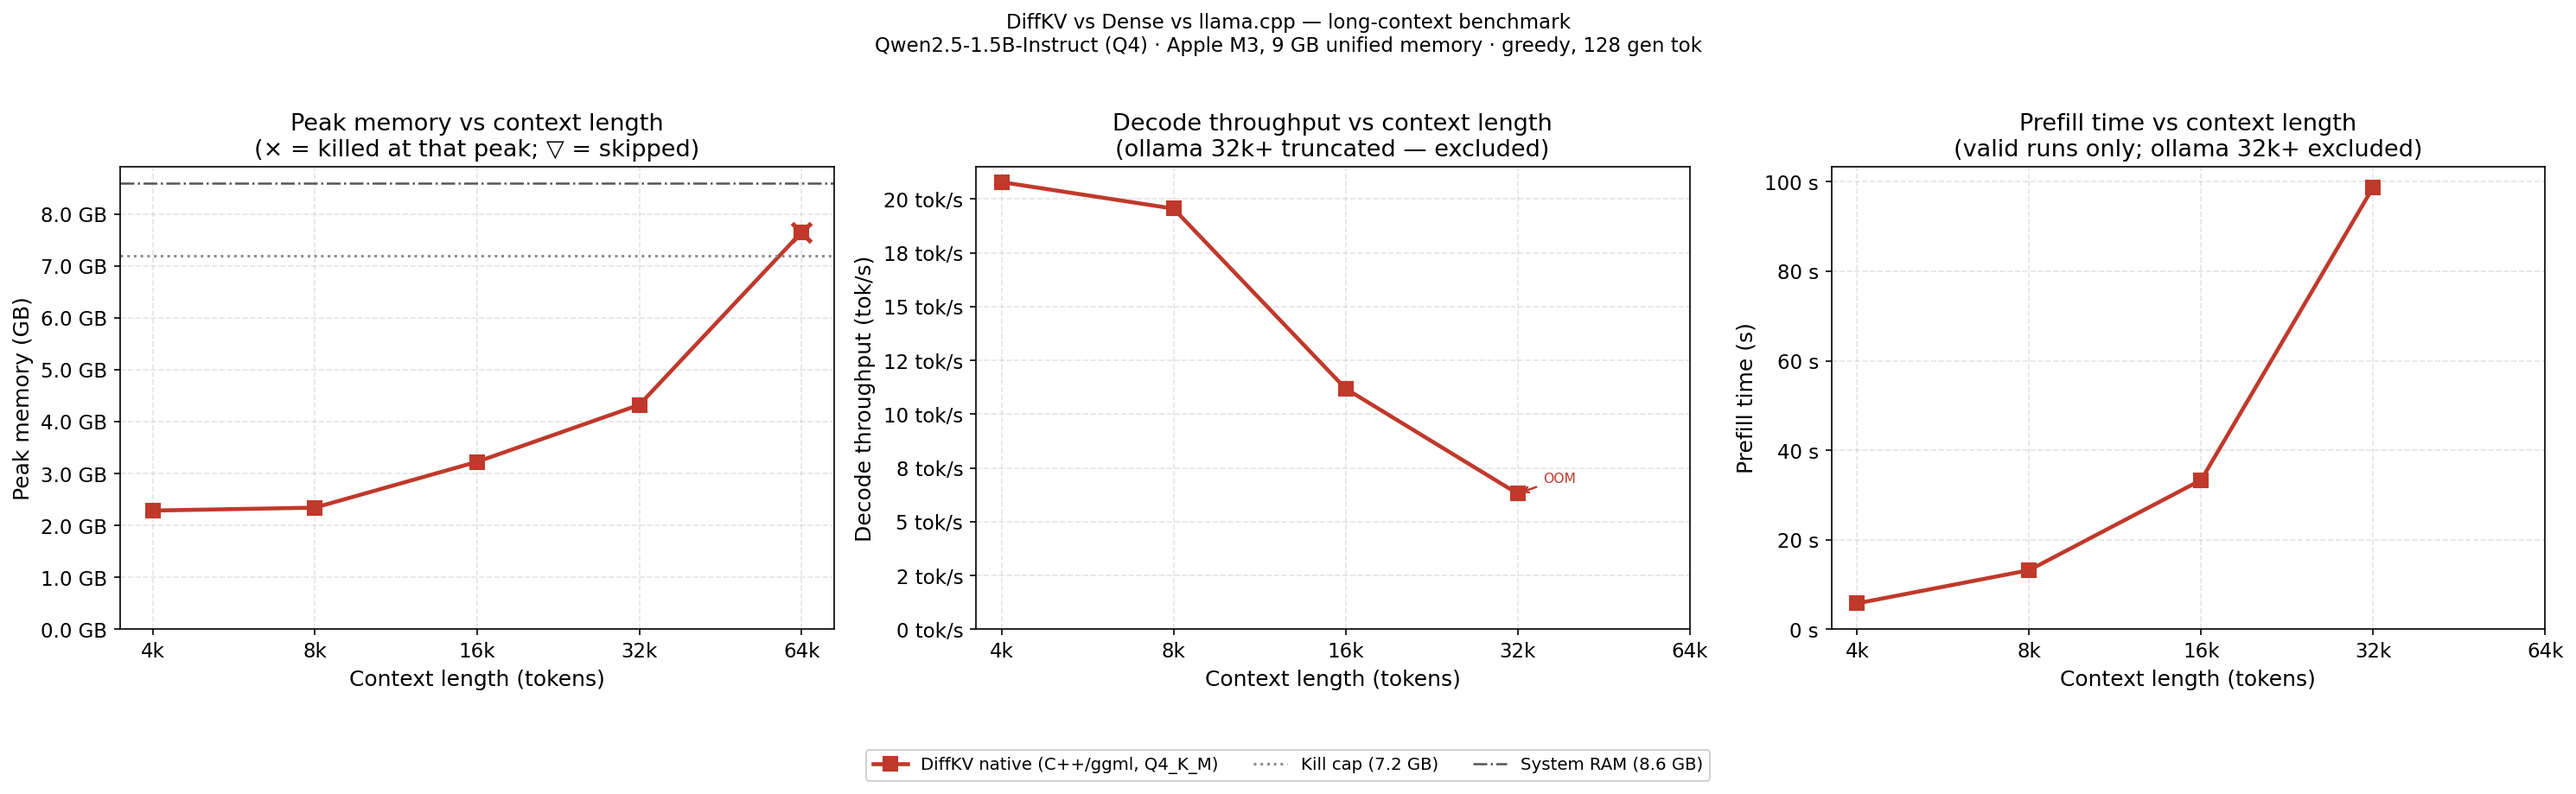
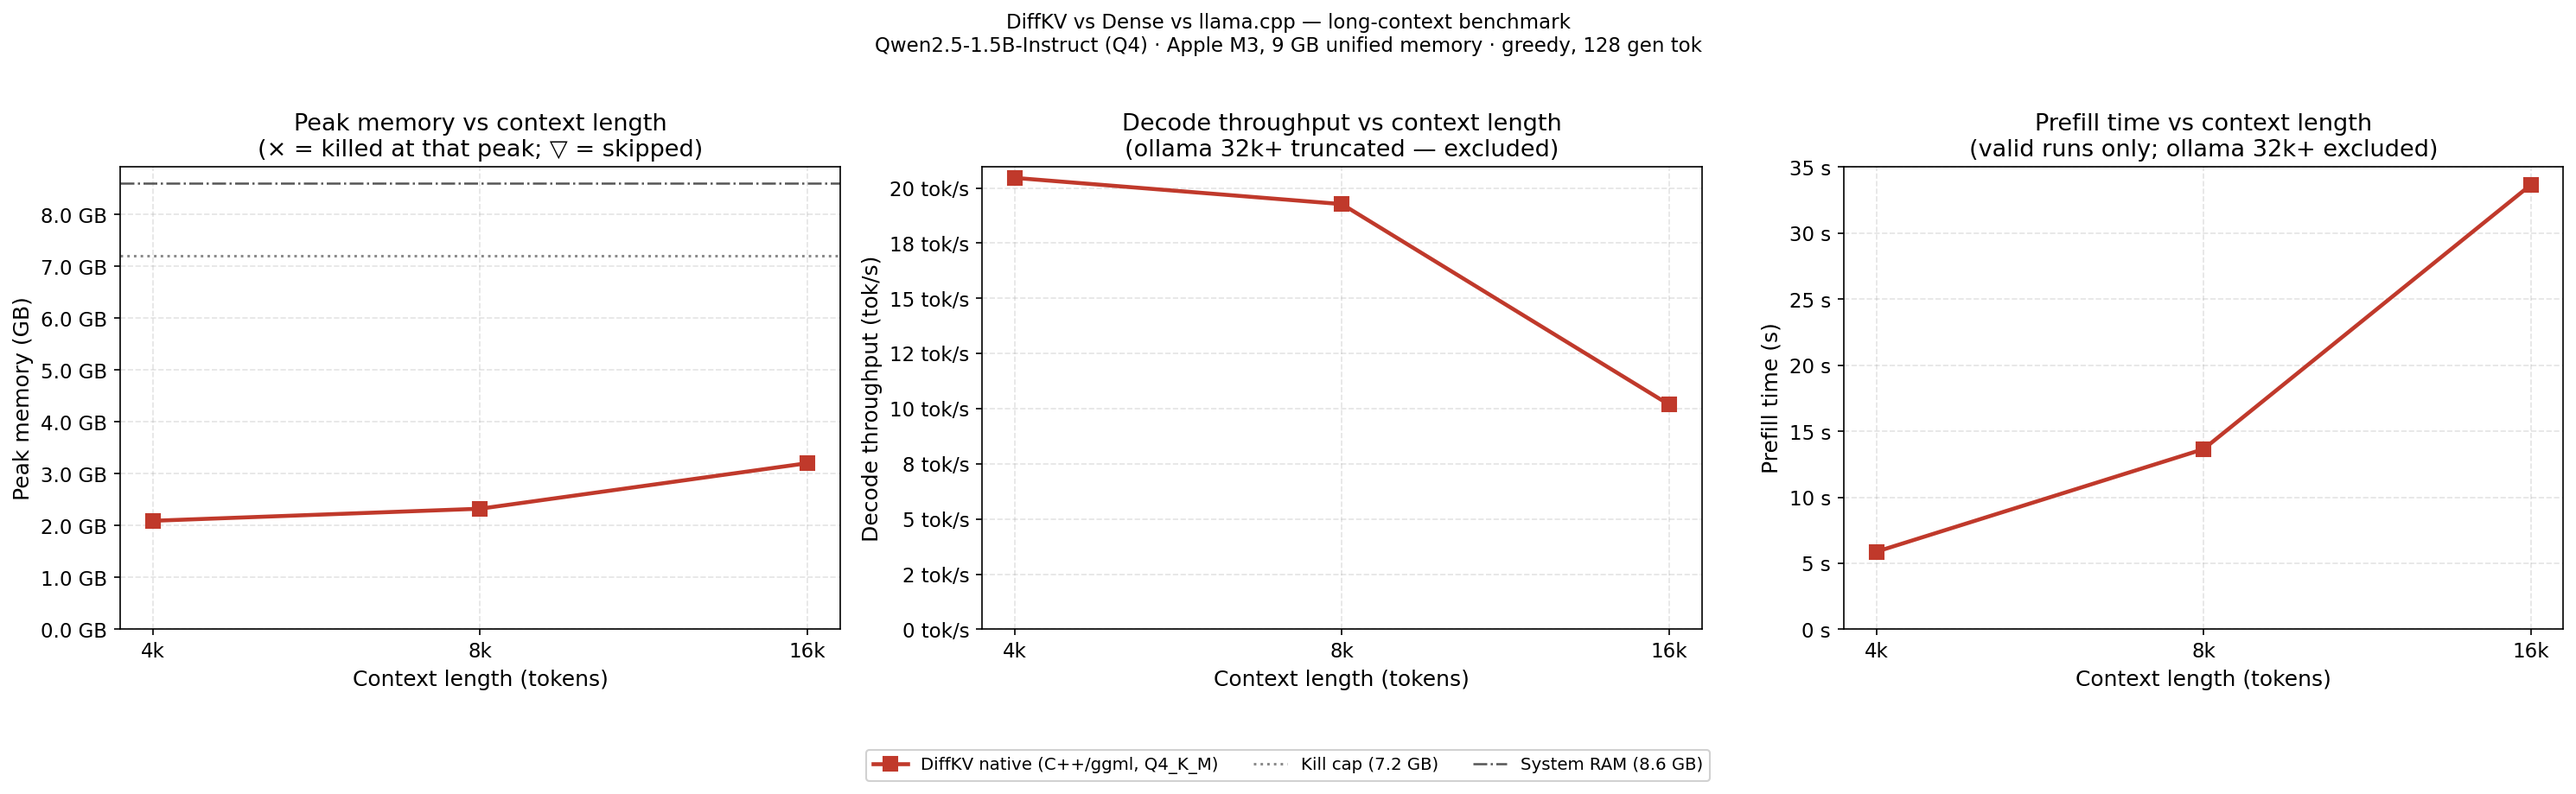
Implement sparse residual application in dense KV cache reconstruction

diff --git a/diffkv_native/src/main.cpp b/diffkv_native/src/main.cpp
@@ -2749,8 +2749,11 @@ int main(int argc, char ** argv) {
                             }
 #endif
 
-                            // Add anchor K/V and multiply by block_scale, then store in activations.
-                            // Copy anchor to landmark position, and delta tokens to their original positions.
+                            const int32_t* slot_res_K_pos = engine->get_host_res_K_pos(slot_id);
+                            const ggml_fp16_t* slot_res_K_val = engine->get_host_res_K_val(slot_id);
+                            const int32_t* slot_res_V_pos = engine->get_host_res_V_pos(slot_id);
+                            const ggml_fp16_t* slot_res_V_val = engine->get_host_res_V_val(slot_id);
+
                             for (int t = 0; t < block_len; ++t) {
                                 int global_pos = block->anchor_idx + t;
                                 if (global_pos >= cached_len) break;
@@ -2764,13 +2767,40 @@ int main(int argc, char ** argv) {
                                 } else {
                                     // Reconstructed from SVD delta
                                     int s = (t == 0) ? (landmark_idx - 1) : (t - 1);
+
+                                    // Look up residual for delta index s
+                                    float res_k_val[F_test];
+                                    float res_v_val[F_test];
+                                    std::memset(res_k_val, 0, sizeof(res_k_val));
+                                    std::memset(res_v_val, 0, sizeof(res_v_val));
+                                    if (slot_res_K_pos && slot_res_K_val) {
+                                        for (int ri = 0; ri < NativeBlockPool::MAX_RESIDUAL; ++ri) {
+                                            if (slot_res_K_pos[ri] == s) {
+                                                for (int f = 0; f < F_test; ++f) {
+                                                    res_k_val[f] = ggml_fp16_to_fp32(slot_res_K_val[ri * F_test + f]);
+                                                }
+                                                break;
+                                            }
+                                        }
+                                    }
+                                    if (slot_res_V_pos && slot_res_V_val) {
+                                        for (int ri = 0; ri < NativeBlockPool::MAX_RESIDUAL; ++ri) {
+                                            if (slot_res_V_pos[ri] == s) {
+                                                for (int f = 0; f < F_test; ++f) {
+                                                    res_v_val[f] = ggml_fp16_to_fp32(slot_res_V_val[ri * F_test + f]);
+                                                }
+                                                break;
+                                            }
+                                        }
+                                    }
+
                                     ggml_fp16_t* k_act_row = &k_activations[l][global_pos * F_test];
                                     ggml_fp16_t* v_act_row = &v_activations[l][global_pos * F_test];
                                     const float* k_del_row = &K_delta[s * F_test];
                                     const float* v_del_row = &V_delta[s * F_test];
                                     for (int f = 0; f < F_test; ++f) {
-                                        k_act_row[f] = ggml_fp32_to_fp16(anchor_k_float[f] + k_del_row[f] * block_scale);
-                                        v_act_row[f] = ggml_fp32_to_fp16(anchor_v_float[f] + v_del_row[f] * block_scale);
+                                        k_act_row[f] = ggml_fp32_to_fp16(anchor_k_float[f] + k_del_row[f] * block_scale + res_k_val[f]);
+                                        v_act_row[f] = ggml_fp32_to_fp16(anchor_v_float[f] + v_del_row[f] * block_scale + res_v_val[f]);
                                     }
                                 }
                             }

diff --git a/diffkv_native/serving/batch_engine.cpp b/diffkv_native/serving/batch_engine.cpp
@@ -931,6 +931,11 @@ void DiffKVBatchEngine::process_request(const std::shared_ptr<BatchRequest>& req
                     const ggml_fp16_t* slot_anchors_K = engine->get_host_anchors_K(slot_id);
                     const ggml_fp16_t* slot_anchors_V = engine->get_host_anchors_V(slot_id);
                     
+                    const int32_t* slot_res_K_pos = engine->get_host_res_K_pos(slot_id);
+                    const ggml_fp16_t* slot_res_K_val = engine->get_host_res_K_val(slot_id);
+                    const int32_t* slot_res_V_pos = engine->get_host_res_V_pos(slot_id);
+                    const ggml_fp16_t* slot_res_V_val = engine->get_host_res_V_val(slot_id);
+
                     int landmark_idx = engine->get_host_anchor_positions()[slot_id] - block->anchor_idx;
                     for (int t = 0; t < block_len; ++t) {
                         int global_pos = block->anchor_idx + t;
@@ -943,6 +948,33 @@ void DiffKVBatchEngine::process_request(const std::shared_ptr<BatchRequest>& req
                             }
                         } else {
                             int s = (t == 0) ? (landmark_idx - 1) : (t - 1);
+                            
+                            // Look up residual for delta index s
+                            float res_k_val[F_test];
+                            float res_v_val[F_test];
+                            std::memset(res_k_val, 0, sizeof(res_k_val));
+                            std::memset(res_v_val, 0, sizeof(res_v_val));
+                            if (slot_res_K_pos && slot_res_K_val) {
+                                for (int ri = 0; ri < NativeBlockPool::MAX_RESIDUAL; ++ri) {
+                                    if (slot_res_K_pos[ri] == s) {
+                                        for (int f = 0; f < F_test; ++f) {
+                                            res_k_val[f] = ggml_fp16_to_fp32(slot_res_K_val[ri * F_test + f]);
+                                        }
+                                        break;
+                                    }
+                                }
+                            }
+                            if (slot_res_V_pos && slot_res_V_val) {
+                                for (int ri = 0; ri < NativeBlockPool::MAX_RESIDUAL; ++ri) {
+                                    if (slot_res_V_pos[ri] == s) {
+                                        for (int f = 0; f < F_test; ++f) {
+                                            res_v_val[f] = ggml_fp16_to_fp32(slot_res_V_val[ri * F_test + f]);
+                                        }
+                                        break;
+                                    }
+                                }
+                            }
+
                             for (int f = 0; f < F_test; ++f) {
                                 float sum_k = 0.0f;
                                 float sum_v = 0.0f;
@@ -955,8 +987,8 @@ void DiffKVBatchEngine::process_request(const std::shared_ptr<BatchRequest>& req
                                 }
                                 float anchor_k = slot_anchors_K ? ggml_fp16_to_fp32(slot_anchors_K[f]) : 0.0f;
                                 float anchor_v = slot_anchors_V ? ggml_fp16_to_fp32(slot_anchors_V[f]) : 0.0f;
-                                k_activations[l][global_pos * F_test + f] = anchor_k + sum_k * block_scale;
-                                v_activations[l][global_pos * F_test + f] = anchor_v + sum_v * block_scale;
+                                k_activations[l][global_pos * F_test + f] = anchor_k + sum_k * block_scale + res_k_val[f];
+                                v_activations[l][global_pos * F_test + f] = anchor_v + sum_v * block_scale + res_v_val[f];
                             }
                         }
                     }

diff --git a/benchmarks/REPORT.md b/benchmarks/REPORT.md
@@ -2,7 +2,7 @@
 
 **Model:** Qwen2.5-1.5B-Instruct (Q4) · **Host:** Oms-MacBook-Pro-2.local, 8.6 GB unified memory, Apple M3
 **Decode tokens/test:** 50 (greedy) · **Per-test timeout:** 1800s · **RAM kill-cap:** 7.5 GB
-**Run:** 2026-06-27T19:23:54 → 2026-06-27T19:32:39
+**Run:** 2026-06-27T19:45:07 → 2026-06-27T19:46:17
 
 All figures are measured on the same machine, one engine at a time in an isolated subprocess. Failed cells show the reason (OOM / timeout / skip), never a fabricated number. Once an engine fails at a context length it is not run at larger ones.
 
@@ -20,27 +20,27 @@ All figures are measured on the same machine, one engine at a time in an isolate
 
 ## Prefill time (s) — lower is better
 
-| Engine | 4k | 8k | 16k | 32k | 64k |
-|---|---|---|---|---|---|
-| native | 5.8 | 13.2 | 33.4 | 98.7 | OOM |
+| Engine | 4k | 8k | 16k |
+|---|---|---|---|
+| native | 5.9 | 13.6 | 33.7 |
 
 ## Decode throughput (tok/s) — higher is better
 
-| Engine | 4k | 8k | 16k | 32k | 64k |
-|---|---|---|---|---|---|
-| native | 20.8 | 19.6 | 11.2 | 6.3 | OOM |
+| Engine | 4k | 8k | 16k |
+|---|---|---|---|
+| native | 20.5 | 19.3 | 10.2 |
 
 ## Peak memory (GB) — lower is better
 
-| Engine | 4k | 8k | 16k | 32k | 64k |
-|---|---|---|---|---|---|
-| native | 2.29 | 2.35 | 3.23 | 4.33 | OOM |
+| Engine | 4k | 8k | 16k |
+|---|---|---|---|
+| native | 2.09 | 2.33 | 3.21 |
 
 ## Maximum usable context (valid run within 8 GB)
 
 | Engine | Max ctx | Limited by |
 |---|---|---|
-| native | **32k** | oom |
+| native | **16k** | — |
 
 ## Key findings
 
@@ -83,8 +83,6 @@ Generated by `plot_graphs.py` into `results/`:
 
 | Engine | Ctx | Status | Prompt tok | Gen tok | Prefill s | Decode tok/s | Peak mem GB | RSS GB | MLX peak GB | ollama VRAM GB | Needle | Wall s |
 |---|---|---|---|---|---|---|---|---|---|---|---|---|
-| native | 4k | ok | 4096 | 15 | 5.8 | 20.8 | 2.29 | 2.29 | — | — | - | 10 |
-| native | 8k | ok | 8192 | 24 | 13.2 | 19.6 | 2.35 | 2.24 | — | — | - | 19 |
-| native | 16k | ok | 16490 | 18 | 33.4 | 11.2 | 3.23 | 2.45 | — | — | - | 38 |
-| native | 32k | ok | 32865 | 27 | 98.7 | 6.3 | 4.33 | 2.74 | — | — | - | 107 |
-| native | 64k | oom | — | — | — | — | 7.65 | 3.41 | — | — |  | 350 |
+| native | 4k | ok | 4096 | 15 | 5.9 | 20.5 | 2.09 | 1.95 | — | — | - | 10 |
+| native | 8k | ok | 8192 | 24 | 13.6 | 19.3 | 2.33 | 2.15 | — | — | - | 20 |
+| native | 16k | ok | 16490 | 18 | 33.7 | 10.2 | 3.21 | 2.32 | — | — | - | 39 |

diff --git a/benchmarks/results/summary.md b/benchmarks/results/summary.md
@@ -1,7 +1,7 @@
 # DiffKV multi-engine benchmark — Qwen2.5-1.5B-Instruct (Q4)
 
 - Host: Oms-MacBook-Pro-2.local · 8.6 GB RAM · Apple M3
-- Started: 2026-06-27T19:23:54  |  Decode tokens/test: 50
+- Started: 2026-06-27T19:45:07  |  Decode tokens/test: 50
 - Per-test timeout: 1800.0s · RAM kill-cap: 7.5 GB
 - All numbers measured; failed cells show the failure reason (OOM/timeout/crash), never fabricated.
 - **Memory** = peak of per-process `max(phys_footprint, RSS)` summed over the engine's process tree, sampled at 20 Hz. Rationale: MLX (active/dense) keeps weights/KV in Metal buffers counted by `phys_footprint` but not RSS; llama.cpp/ggml (ollama, native) mmap their GGUF weights, counted by RSS but not `phys_footprint`. Taking the larger per process avoids undercounting either family. The `(RSS GB)` column is plain resident set, for reference. ollama is measured on its `llama-server` process tree.
@@ -11,28 +11,26 @@
 
 ## Prefill time (s)
 
-| Engine | 4k | 8k | 16k | 32k | 64k |
-|---|---|---|---|---|---|
-| native | 5.82 | 13.23 | 33.36 | 98.73 | **OOM** |
+| Engine | 4k | 8k | 16k |
+|---|---|---|---|
+| native | 5.88 | 13.65 | 33.66 |
 
 ## Decode throughput (tok/s)
 
-| Engine | 4k | 8k | 16k | 32k | 64k |
-|---|---|---|---|---|---|
-| native | 20.8 | 19.6 | 11.2 | 6.3 | **OOM** |
+| Engine | 4k | 8k | 16k |
+|---|---|---|---|
+| native | 20.5 | 19.3 | 10.2 |
 
 ## Peak memory (GB)
 
-| Engine | 4k | 8k | 16k | 32k | 64k |
-|---|---|---|---|---|---|
-| native | 2.29 | 2.35 | 3.23 | 4.33 | **OOM** |
+| Engine | 4k | 8k | 16k |
+|---|---|---|---|
+| native | 2.09 | 2.33 | 3.21 |
 
 ## Per-run detail
 
 | Engine | Ctx | Status | Prompt tok | Gen tok | Prefill s | Decode tok/s | Peak mem GB | (RSS GB) | MLX peak GB | Needle | Wall s |
 |---|---|---|---|---|---|---|---|---|---|---|---|
-| native | 4k | ok | 4096 | 15 | 5.82 | 20.8 | 2.29 | 2.29 | — | - | 9.7 |
-| native | 8k | ok | 8192 | 24 | 13.23 | 19.6 | 2.35 | 2.24 | — | - | 19.2 |
-| native | 16k | ok | 16490 | 18 | 33.36 | 11.2 | 3.23 | 2.45 | — | - | 37.9 |
-| native | 32k | ok | 32865 | 27 | 98.73 | 6.3 | 4.33 | 2.74 | — | - | 107.2 |
-| native | 64k | oom | — | — | — | — | 7.65 | 3.41 | — |  | 350.4 |
+| native | 4k | ok | 4096 | 15 | 5.88 | 20.5 | 2.09 | 1.95 | — | - | 10.5 |
+| native | 8k | ok | 8192 | 24 | 13.65 | 19.3 | 2.33 | 2.15 | — | - | 19.8 |
+| native | 16k | ok | 16490 | 18 | 33.66 | 10.2 | 3.21 | 2.32 | — | - | 38.8 |
